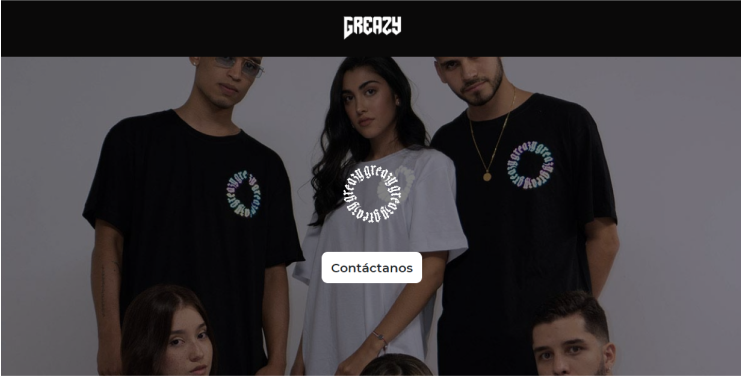
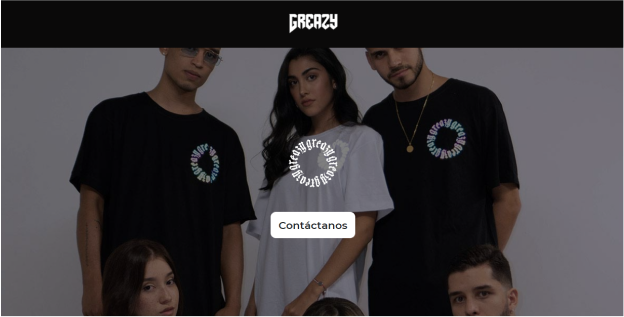
Styles finished, functionality left

diff --git a/components/Window/styles.js b/components/Window/styles.js
@@ -6,11 +6,19 @@ export default css`
         display: flex;
         flex-direction: column;
         margin: 1rem 1.5rem 1rem;
+        padding: 0 1.5rem;
+        max-width: 45rem;
+        margin: 0 auto;
         color: ${colors.white};
+        border-radius: .5rem;
     }
 
     .window.desktopSize, .window.mobileSize{
         position: absolute;
+        background-size: cover;
+        padding: 0;
+
+        /* border: 2px inset ${colors.gray}33; */
         
     }
     .window.desktopSize .window__tab, .window.mobileSize .window__tab{
@@ -20,12 +28,12 @@ export default css`
         top: 10%;
         left: 0;
         width: 90%;
-        max-width: 25rem;
-        height: 70%;
+        max-width: 26rem;
+        height: 80%;
         max-height: 15rem;
         transform: perspective(600px) rotateY(25deg) rotateX(12deg);
-        box-shadow: -5px 5px 10px ${colors.black};
-        border-radius: 0 0 .5rem .5rem;
+        box-shadow: -5px 5px 5px ${colors.black};
+        /* border-radius: 0 0 .5rem .5rem; */
     }
     .window.desktopSize .window__tab-buttons{
         left: .5rem;
@@ -34,13 +42,13 @@ export default css`
     
     .window.mobileSize{
         right: 0;
-        max-width: 12rem;
+        max-width: 10rem;
         max-height: 25rem;
         width: 40%;
-        height: 90%;
-        transform: perspective(400px) rotateY(-25deg) rotateX(5deg);
-        box-shadow: 5px 5px 10px ${colors.black};
-        border-radius: 0 0 .5rem .5rem;
+        height: 85%;
+        transform: perspective(300px) rotateY(-25deg) rotateX(0deg);
+        box-shadow: 5px 5px 5px ${colors.black};
+        /* border-radius: 0 0 .5rem .5rem; */
     }
     .window.mobileSize .window__tab-buttons .tabButton, .window.desktopSize .window__tab-buttons .tabButton{
         width: .5rem;
@@ -91,9 +99,19 @@ export default css`
     .window__content{
         height: 100%;
         border-radius: 0 0 .5rem .5rem;
-        background-color: #19191a79;
+        background-color: #35353579;
         -webkit-backdrop-filter: saturate(180%) blur(2px);
         backdrop-filter: saturate(180%) blur(2px); 
         font-size: 1.2rem;
+    }
+
+    @media screen and (min-width: 1024px){
+        .window.mobileSize{
+            transform: perspective(300px) rotateY(-15deg) rotateX(0deg);
+        }
+        .window.desktopSize{
+            transform: perspective(300px) rotateY(10deg) rotateX(0deg);
+            max-height: 25rem;
+        }
     }
 `

diff --git a/components/Numbers/index.jsx b/components/Numbers/index.jsx
@@ -11,30 +11,33 @@ const Numbers = () => {
     ? useLayoutEffect
     : useEffect
     useIsomorphicLayoutEffect(() => {
-            // var atScroll = false;
-            // let parallaxText = document.querySelectorAll(".numbers p");
+        if (window.matchMedia("(min-width: 1024px)").matches) {
+        /* La pantalla tiene al menos 400 píxeles de ancho */
+            var atScroll = false;
+            let parallaxText = document.querySelectorAll(".numbers p");
 
-            // const scrollProgress = () => {
-            //     atScroll = true;
-            // };
+            const scrollProgress = () => {
+                atScroll = true;
+            };
 
-            // const raf = () => {
-            //     if (atScroll) {
-            //         parallaxText.forEach((element, index) => {
-            //             if (index === 1) {
-            //                 element.style.transform = "translateY(" + window.scrollY / 500 + "%)";
-            //             }else{
-            //                 element.style.transform = `translateY(-${(window.scrollY / 500) + 10}%) scale(.7)`;
-            //             }
-            //         });
-            //         atScroll = false;
-            //     }
+            const raf = () => {
+                if (atScroll) {
+                    parallaxText.forEach((element, index) => {
+                        if (index === 1) {
+                            element.style.transform = "translateY(" + window.scrollY / 500 + "%)";
+                        }else{
+                            element.style.transform = `translateY(-${(window.scrollY / 500) + 30}%) scale(.7)`;
+                        }
+                    });
+                    atScroll = false;
+                }
                 
-            //     requestAnimationFrame(raf);
-            // };
+                requestAnimationFrame(raf);
+            };
 
-            // requestAnimationFrame(raf);
-            // window.addEventListener("scroll", scrollProgress);
+            requestAnimationFrame(raf);
+            window.addEventListener("scroll", scrollProgress);
+        }
     }, [])
     
     return ( 

diff --git a/components/DialogProject/index.jsx b/components/DialogProject/index.jsx
@@ -8,7 +8,7 @@ import styles from './styles';
 const projects = [
     {
         name: "Greazy",
-        description: "Lorem ipsum dolor sit amet consectetur adipisicing elit. Tempora, quas!",
+        description: "Lorem ipsum dolor sit amet consectetur adipisicing elit. Tempora, quas!Lorem ipsum dolor sit amet consectetur adipisicing elit. Tempora, quas!Lorem ipsum dolor sit amet consectetur adipisicing elit. Tempora, quas!Lorem ipsum dolor sit amet consectetur adipisicing elit. Tempora, quas!",
         link: "https://127.0.0.1:8080",
         image: greazyImage
     },
@@ -37,7 +37,6 @@ const DialogProject = () => {
     : useEffect
     useIsomorphicLayoutEffect(()=>{
         const projectImages = document.querySelectorAll('.currentProject__image');
-
         projectImages[0].style.backgroundImage = `url(${currentProject.image.src})`;
         projectImages[1].style.backgroundImage = `url(${currentProject.image.src})`;
     },[])
@@ -53,11 +52,13 @@ const DialogProject = () => {
                     <div className="currentProject__image"></div>
                 </Window>
             </div>
-            <h2 className='currentProject__title'>{currentProject.name}</h2>
-            <p className='currentProject__description'>{currentProject.description}</p>
-            <div className="currentProject__buttons">
-                <button className='seeMoreButton'>Ver proyecto</button>
-                <KnowMoreButton direction="right" content="Siguiente proyecto"/>
+            <div className="currentProject__content">
+                <h2 className='currentProject__title'>{currentProject.name}</h2>
+                <p className='currentProject__description'>{currentProject.description}</p>
+                <div className="currentProject__buttons">
+                    <button className='seeMoreButton'>Ver proyecto</button>
+                    <KnowMoreButton direction="right" content="Siguiente proyecto" classes="floating"/>
+                </div>
             </div>
             <style jsx>{styles}</style>
         </div>

diff --git a/components/DialogProject/styles.js b/components/DialogProject/styles.js
@@ -6,6 +6,9 @@ export default css`
         display: flex;
         flex-direction: column;
         align-items: center;
+        max-width: 30rem;
+        margin: 2rem auto 0;
+
     }
     .currentProject__images{
         position: relative;
@@ -23,5 +26,51 @@ export default css`
         width: 100%;
         height: 100%;
         border-radius: 0 0 .5rem .5rem;
+    }
+    .currentProject__content{
+        position: relative;
+        margin: 1.5rem;
+        padding: 1.5rem;
+        background-color: #19191ab0;
+        -webkit-backdrop-filter: saturate(180%) blur(2px);
+        backdrop-filter: saturate(180%) blur(2px);
+        border-radius: 1rem;
+        color: ${colors.white};
+    }
+
+    .currentProject__title{
+        display: inline;
+        background: linear-gradient(to right, ${colors.primary}, ${colors.secondary});
+        background-clip: text;
+        -webkit-text-fill-color: transparent;
+    }
+
+    .seeMoreButton{
+        position: absolute;
+        bottom: -1rem;
+        left: -.5rem;
+        width: fit-content;
+        padding: .4rem 1rem;
+        font-size: 1rem;
+        font-weight: 500;
+        background-color: ${colors.primary}22;
+        border-radius: .3rem;
+        border: 2px solid ${colors.primary};
+        color: ${colors.primary};
+    }
+    .currentProject__content .knowMoreButton{
+        bottom: -1rem;
+    }
+
+    @media screen and (min-width: 1024px){
+        .currentProject{
+            display: grid;
+            grid-template-columns: 1fr 1fr;
+            max-width: 55rem;
+            
+        }
+        .currentProject__images{
+            width: 120%
+        }
     }
 `

diff --git a/components/DialogText/styles.js b/components/DialogText/styles.js
@@ -3,7 +3,22 @@ import { colors } from '../../styles/theme'
 
 export default css`
     .dialogText{
-        padding: 0 1.2rem 1rem;
+        padding: 1rem 1.2rem;
         font-size: 1.1rem;
+        width: 90%;
+        max-width: 25rem;
+        margin: -1rem auto 0;
+        background-color: #35353579;
+        -webkit-backdrop-filter: saturate(180%) blur(2px);
+        backdrop-filter: saturate(180%) blur(2px);
+        border-radius: 1rem;
+    }
+    @media screen and (min-width: 768px){
+        .dialogText{
+            margin: 0 0 0 -1rem;
+            width: 100%;
+            height: 80%;
+            font-size: 1rem;
+        }
     }
 `

diff --git a/components/sections/AboutMe/styles.js b/components/sections/AboutMe/styles.js
@@ -3,10 +3,20 @@ import { colors } from '../../../styles/theme'
 
 export default css`
     .aboutMe{
-        margin: 0 1.5rem;
+        margin: 0 1.5rem 5rem;
+        padding-top: 1.5rem;
         margin-top: 3rem;
-        background-color: #19191a79;
-        -webkit-backdrop-filter: saturate(180%) blur(2px);
-        backdrop-filter: saturate(180%) blur(2px);
+    }
+    .aboutMe__container{
+        max-width: 45rem;
+        margin: 0 auto;
+        
+    }
+
+    @media screen and (min-width: 768px){
+        .aboutMe__container{
+            display: flex;
+            align-items: center;
+        }
     }
 `

diff --git a/components/Numbers/styles.js b/components/Numbers/styles.js
@@ -3,7 +3,7 @@ import { colors } from '../../styles/theme'
 
 export default css`
     .numbers{
-        position:fixed;
+        position: fixed;
         top: -10%;
         bottom: 0;
         overflow-y: hidden;
@@ -29,5 +29,13 @@ export default css`
         background-clip: text;
         -webkit-text-fill-color: transparent;
         font-weight: 500;
+    }
+    @media screen and (min-width: 1024px){
+        .numbers{
+            top: -30%;
+        }
+        .numbers p:nth-child(1), .numbers p:nth-child(3){
+            /* transform: scale(.7) translateY(-80%); */
+        }
     }
 `

diff --git a/components/sections/Portfolio/styles.js b/components/sections/Portfolio/styles.js
@@ -18,18 +18,25 @@ export default css`
     
     .portfolio__title h2{
         position: absolute;
-        left: -30%;
         line-height: 1rem;
         color: ${colors.white};
         font-weight: 400;
         white-space: nowrap;
     }
     .portfolio__title h2:nth-child(1){
+        right: -30%;
         top:0;
         color: ${colors.primary};
     }
     .portfolio__title h2:nth-child(2){
+        left: -30%;
         bottom:0;
     }
+
+    .portfolio .moveButton{
+        margin: 0 auto;
+    }
+
+    
     
 `

diff --git a/components/sections/Hero/index.jsx b/components/sections/Hero/index.jsx
@@ -11,7 +11,7 @@ const Hero = () => {
                 <Window tabText="Santi@restrepo: ~">
                     <ConsoleText text="¡Hola!"/>
                     <ConsoleText text="Soy Santiago Restrepo Idárraga"/>
-                    <ConsoleText text="Un desarrollador web pasionado por la seguridad informática"/>
+                    <ConsoleText text="Un desarrollador web apasionado por la seguridad informática"/>
                     <ConsoleText text=""/>
                 </Window>
             </section>

diff --git a/components/sections/AboutMe/index.jsx b/components/sections/AboutMe/index.jsx
@@ -7,8 +7,13 @@ import styles from './styles';
 const AboutMe = () => {
     return ( 
         <section className='aboutMe' id='aboutMe'>
-            <Image src={mePhoto}/>
-            <DialogText/>
+            <div className="aboutMe__container">
+                <Image src={mePhoto} style={{
+                    borderRadius: "1rem",
+                    zIndex: 1,
+                }}/>
+                <DialogText/>
+            </div>
             <style jsx>{styles}</style>
         </section>
     )

diff --git a/components/buttons/KnowMoreButton/index.jsx b/components/buttons/KnowMoreButton/index.jsx
@@ -2,9 +2,9 @@ import React from 'react';
 import Arrow from '../../Arrow';
 import styles from './styles';
 
-const KnowMoreButton = ({direction,content}) => {
+const KnowMoreButton = ({direction,content, classes}) => {
     return ( 
-        <button className='knowMoreButton'>
+        <button className={`knowMoreButton ${classes}`}>
             <div className="knowMoreButton__content">
                 {content}
             </div>

diff --git a/components/buttons/MoveButton/index.jsx b/components/buttons/MoveButton/index.jsx
@@ -3,10 +3,10 @@ import React from 'react';
 import Arrow from '../../Arrow';
 import styles from './styles';
 
-const MoveButton = ({direction,content, link}) => {
+const MoveButton = ({direction, content, link}) => {
     return (
         <Link href={link}>
-            <a className='moveButton'>
+            <a className={`moveButton ${direction}`}>
                 {
                     direction === "up" ?
                     <>
